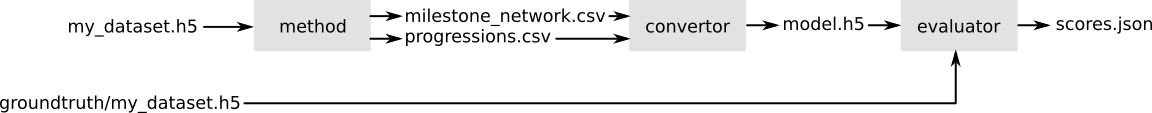
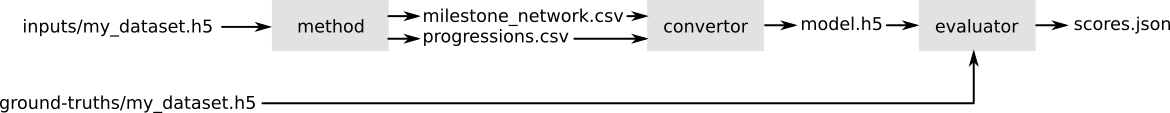
Moves and renames example folders
`examples/input` > `examples/inputs`
`examples/input/groundtruth` > `examples/ground-truths`
`examples/output` > `examples/outputs`

Changed region(s): [[0.0, 0.0, 1.0, 0.4513], [0.0, 0.8496, 0.25, 1.0], [0.8125, 0.4513, 0.8438, 0.9292]]

diff --git a/docs/description.md b/docs/description.md
@@ -82,8 +82,8 @@ the entrypoint using the JSON notation as is shown in the examples.
 The input file is an HDF5 file, which contains two matrices: the counts
 (`/data/counts`) and expression (`/data/expression`). These matrices
 contain the expression of genes (columns) within hundreds to millions of
-cells (rows). Example HDF5 files are present in the [examples input
-folder](../examples/input) (*dataset.h5*).
+cells (rows). Example HDF5 files are present in the [examples inputs
+folder](../examples/inputs) (*dataset.h5*).
 
 Because the data is very sparse, the matrices are stored inside a sparse
 format: [Compressed sparse column format
@@ -105,8 +105,8 @@ the lengths of these connections (*length*). The *progressions.csv*
 contains for each cell (*cell\_id*) where it is located along this
 topology (*from*, *to* and *percentage* ∈ \[0, 1\]). Both outputs have
 to be saved as a comma separated file without an index but with header.
-Example csv files are present in the [examples output
-folder](../examples/output) (*progressions.csv* and
+Example csv files are present in the [examples outputs
+folder](../examples/outputs) (*progressions.csv* and
 *milestone\_network.csv*).
 
 We provided an example to save these two objects for
@@ -153,8 +153,8 @@ library(dyno, quietly = TRUE)
 
 # load in the model and groundtruth
 model <- dynutils::read_h5("../results/model.h5")
-dataset <- dynutils::read_h5("../examples/input/linear.h5")
-groundtruth <- dynutils::read_h5("../examples/input/groundtruth/linear.h5")
+dataset <- dynutils::read_h5("../examples/inputs/linear.h5")
+groundtruth <- dynutils::read_h5("../examples/ground-truths/linear.h5")
 
 # add a dimensionality reduction to the ground truth using landmark MDS
 groundtruth <- groundtruth %>% add_dimred(dyndimred::dimred_landmark_mds)
